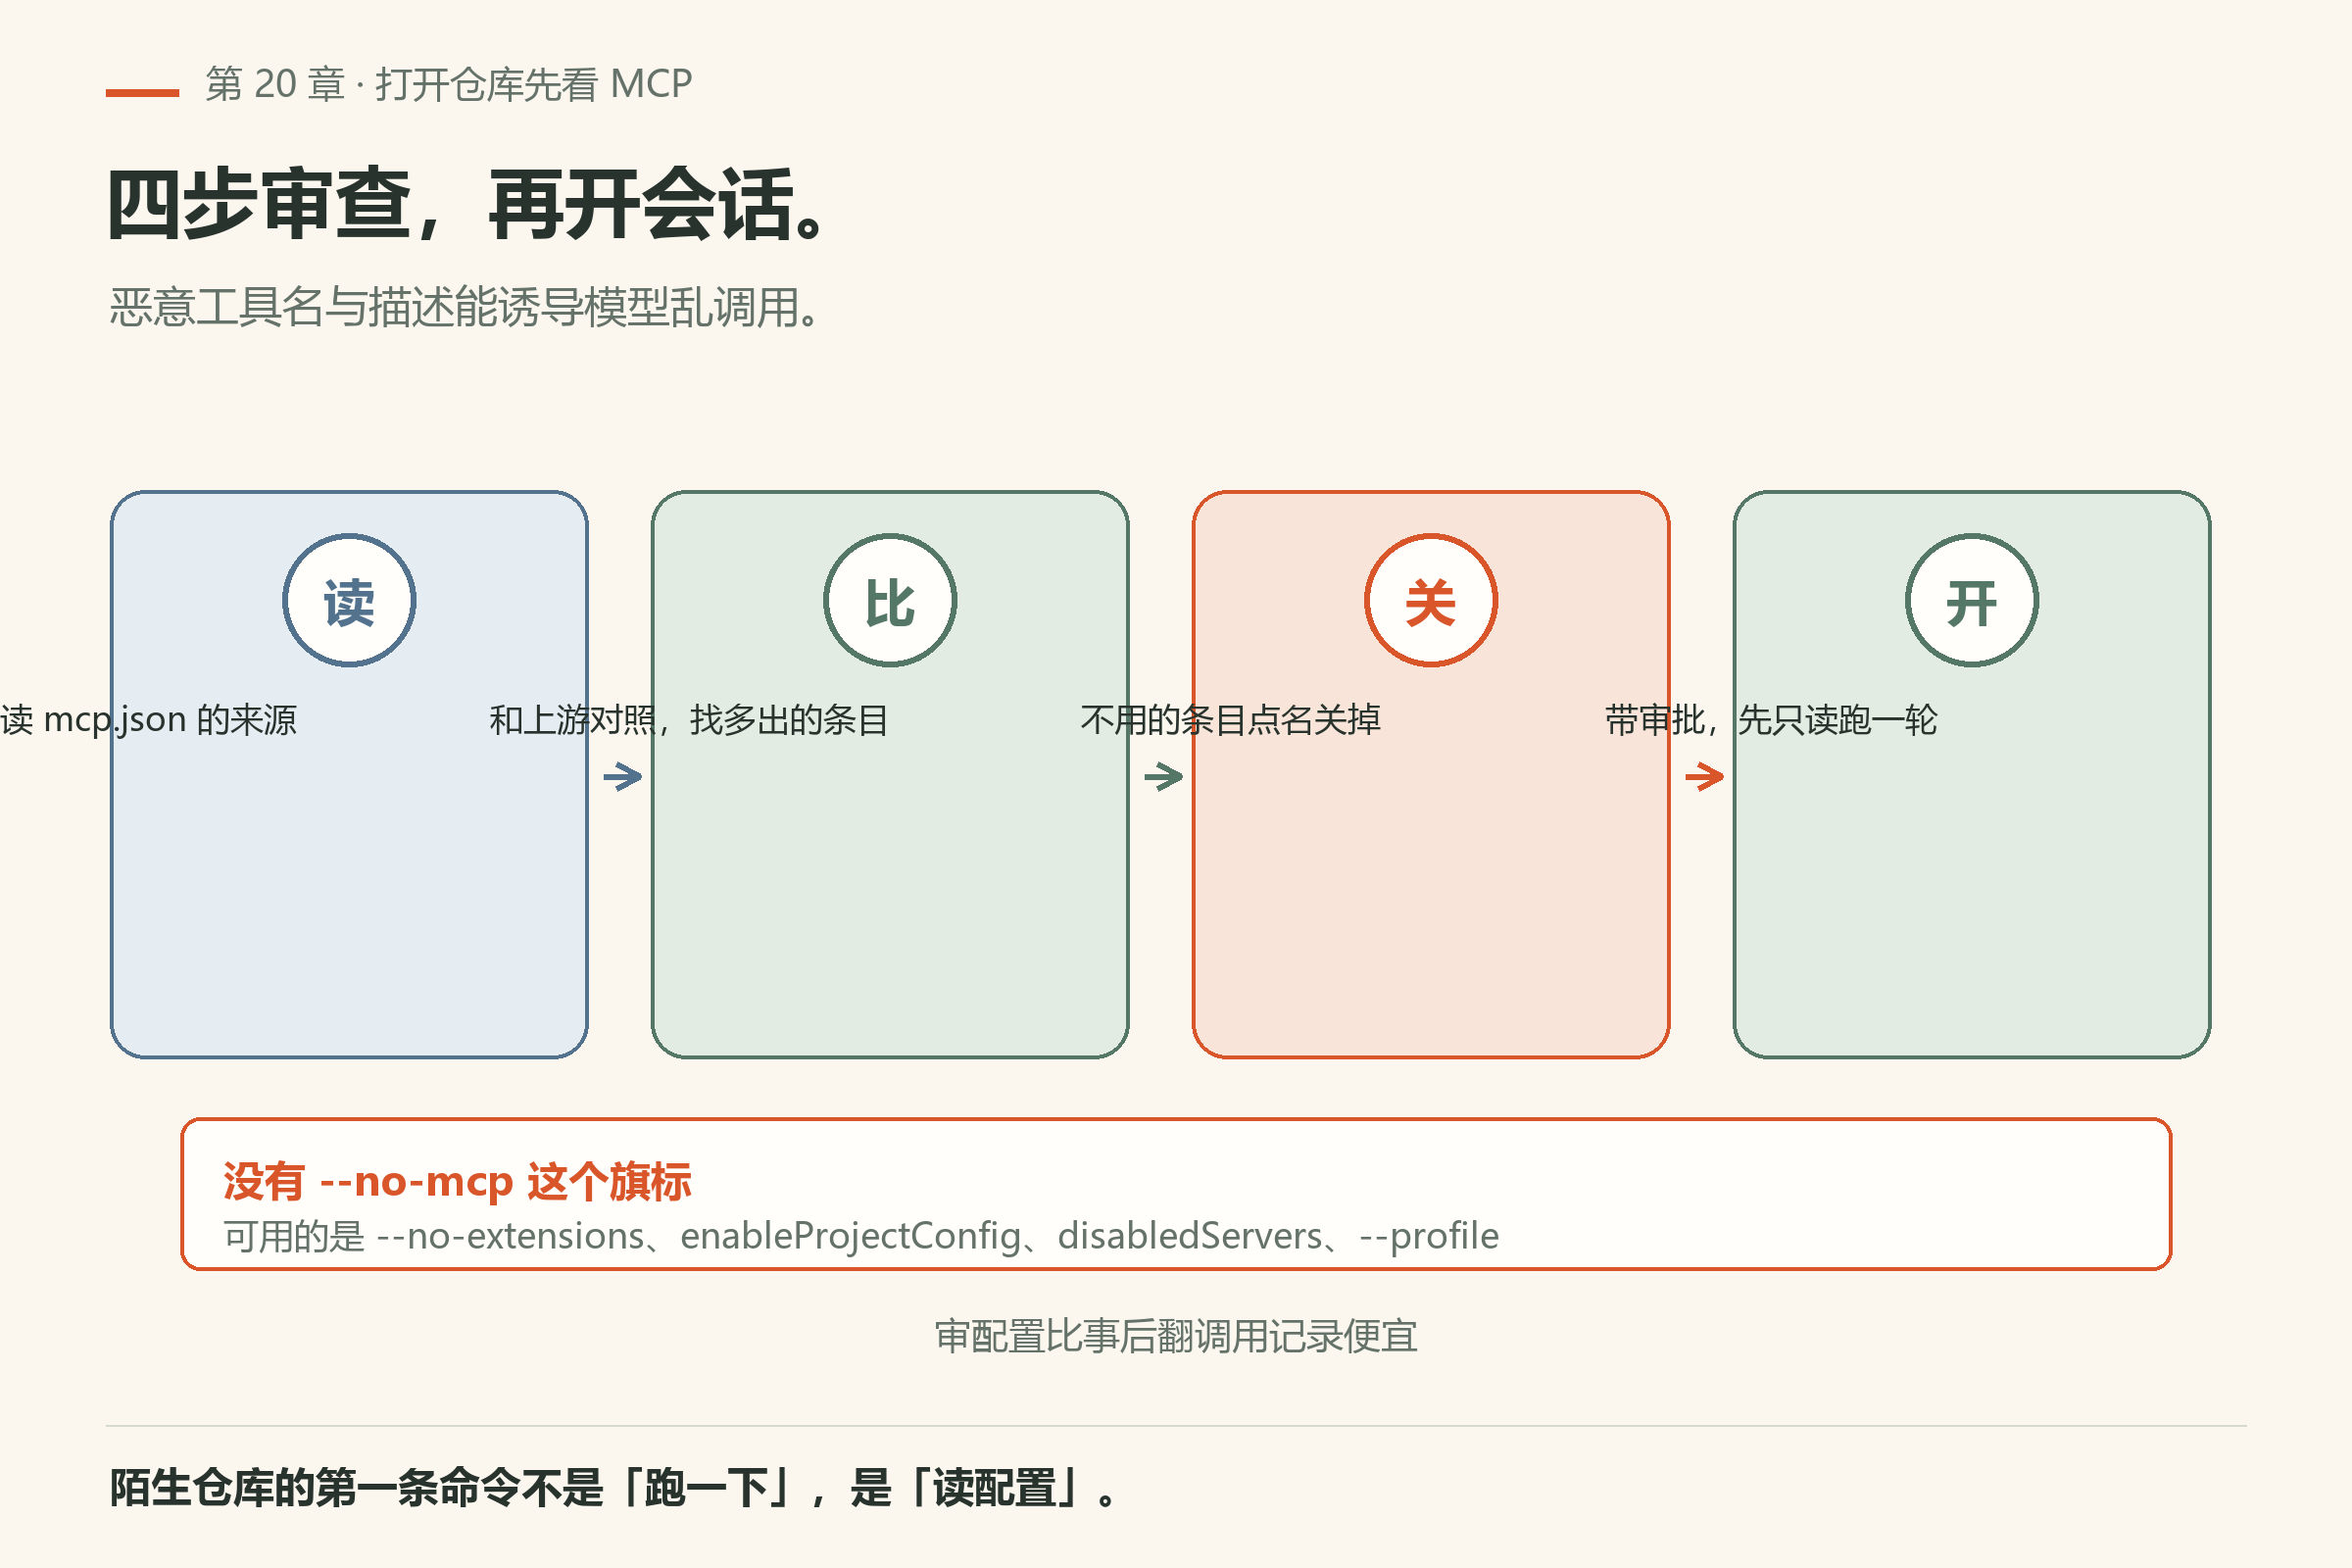
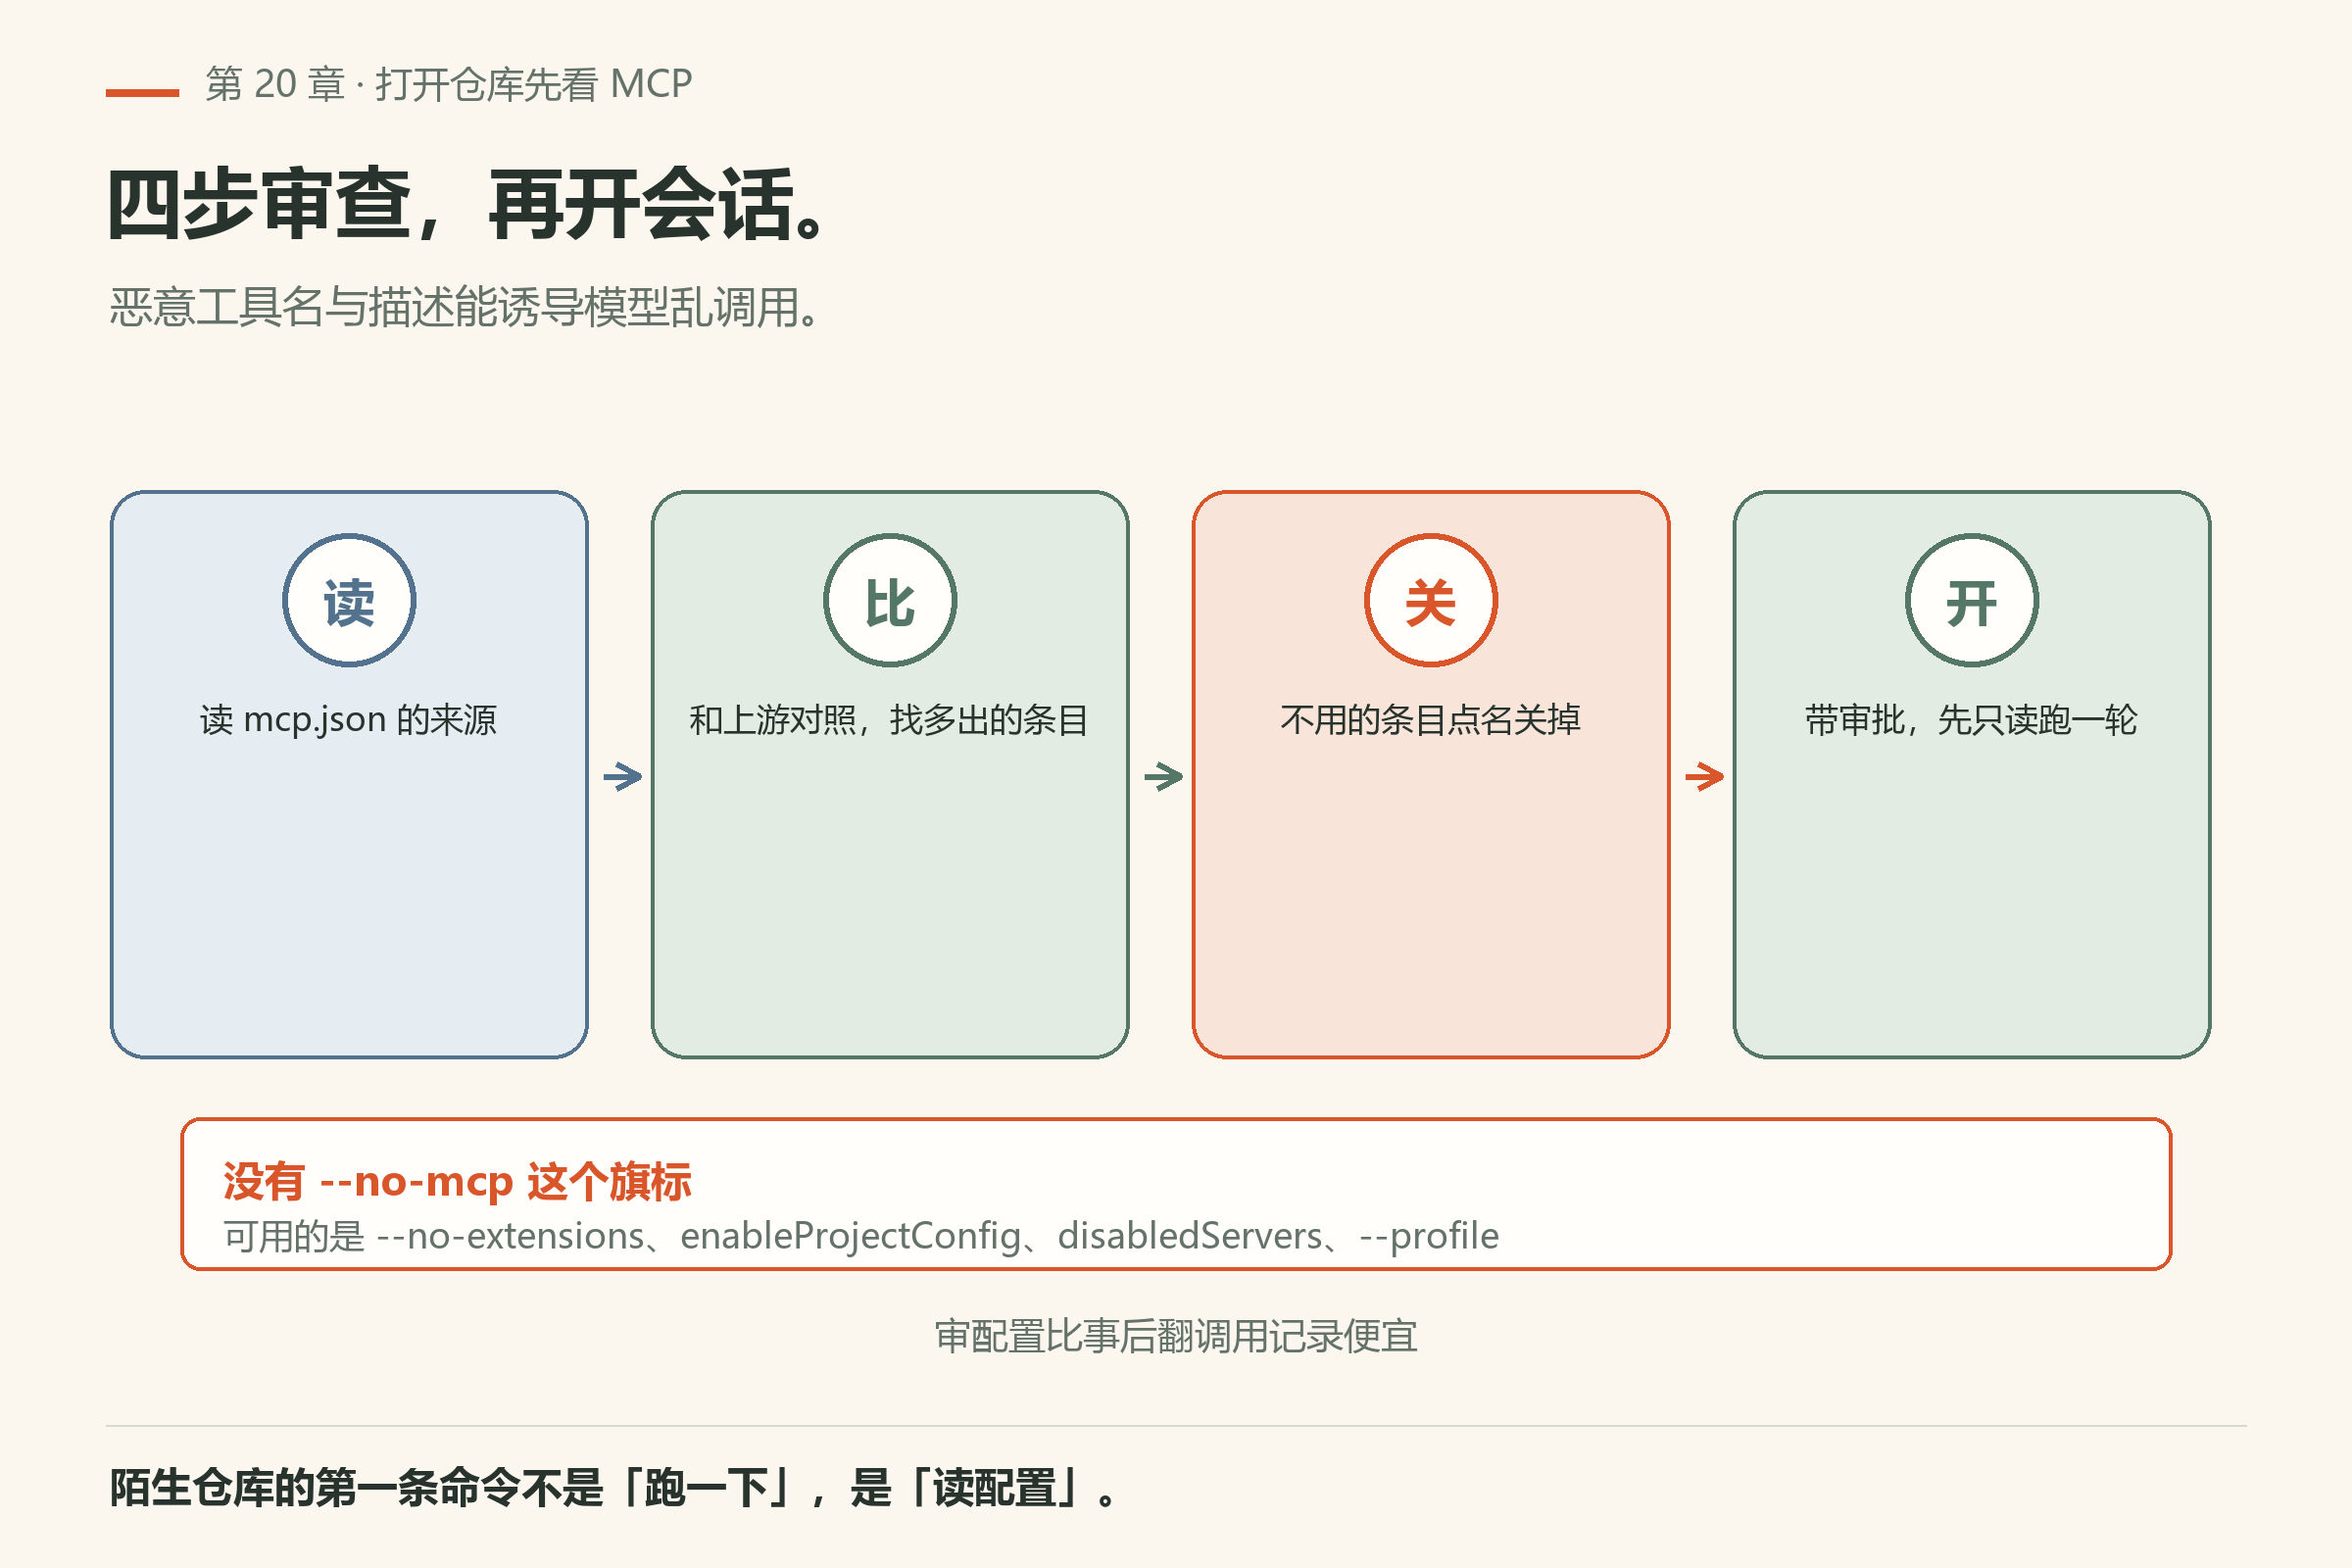
fix(omp): keep plate labels inside their cards, and gate the whole class
The canvas guard only looked at a shape's anchor point, but a label's
anchor is not the space it takes. fig20-3-mcp-review centred four card
captions on left + 20 -- near the card's left edge -- so one ran from
x=0 and two started at x=-26 and x=-9: text hanging outside its own
card, one run pressed against the canvas edge. Centre them on the card
(left + 122), matching the badge and verb above.

Drawing.text() now derives the run's real left and right edges from the
anchor and rejects anything off canvas, so an anchor inside the canvas
with ink outside can no longer slip past.

New regression test: every generated plate's outer band must be bare
paper. It reads the shipped JPEGs, so it needs no fonts and gives the
same verdict on any machine; the pre-fix fig20-3 fails it, the fixed one
passes. All 188 plates are clean; the four upstream screenshots are
excluded by size -- they photograph a window and bleed by nature.

Changed region(s): [[0.0, 0.4375, 0.9062, 0.4688]]

diff --git a/tests/test_omp_overhaul.py b/tests/test_omp_overhaul.py
@@ -8,6 +8,8 @@ import tempfile
 import unittest
 from unittest.mock import patch
 
+from PIL import Image
+
 from omp.overhaul import audit_delivery, audit_structure, markdown_scan
 
 
@@ -237,6 +239,9 @@ class MarkdownScanTests(unittest.TestCase):
 
 
 REPO_ROOT = Path(__file__).resolve().parents[1]
+# plates are drawn at 1200x800 logical pixels with --scale 2
+PLATE_PIXELS = (2400, 1600)
+PAPER_RGB = (251, 247, 239)
 # figures whose bitmap comes from a hand-written SVG export, not the Pillow script
 UPSTREAM_SHOTS = frozenset("""
     fig11-4-lsp-shot fig5-3-model-selector fig6-6-ask-shot fig6-7-slash-shot
@@ -247,6 +252,19 @@ SVG_DERIVED = frozenset("""
     fig28-1-sdk-embed fig33-3-tool-registry fig4-3-alpine-pitfall fig4-4-completions
     fig5-3-login-flow fig5-4-models-yml fig9-1-hashline-anchor fig9-2-hashline-vs-replace
 """.split())
+
+
+def edge_has_ink(image, box):
+    """True when a border band holds anything but bare paper.
+
+    Deviation is measured from paper, not from zero: getextrema returns
+    absolute channel values, so paper itself reads 251. Any channel more
+    than 30 away counts. The palest card fills differ by at most 24 on
+    their worst channel, so they stay quiet; drawn ink differs by hundreds.
+    """
+    band = image.crop(box)
+    return max(max(high - paper, paper - low)
+               for (low, high), paper in zip(band.getextrema(), PAPER_RGB)) > 30
 
 
 def load_illustration_script():
@@ -275,6 +293,32 @@ class IllustrationCoverageTests(unittest.TestCase):
         generators = set(load_illustration_script().FIGURES)
         self.assertEqual(generators & SVG_DERIVED, set())
         self.assertEqual(generators & UPSTREAM_SHOTS, set())
+
+    def test_no_generated_plate_paints_against_its_canvas_edge(self):
+        """A plate whose layout runs off the canvas is cut, not shrunk.
+
+        That failure is invisible downstream: the JPEG is still 1200x800,
+        still under the byte budget, still passes every audit -- the lost
+        half is simply gone. Nine plates were laid out past the right edge
+        and shipped that way until a PDF page was sampled by eye.
+
+        Plates are drawn on paper with a margin, so the outer band must be
+        bare. Screenshots are excluded: they are photographs of a window,
+        full-bleed by nature.
+        """
+        offenders = []
+        for path in sorted((REPO_ROOT / "omp" / "images").glob("*.jpg")):
+            with Image.open(path) as source:
+                if source.size != PLATE_PIXELS:
+                    continue   # upstream screenshot, not a drawn plate
+                source.draft("RGB", (600, 400))
+                image = source.convert("RGB")
+            width, height = image.size
+            bands = ((0, 0, width, 2), (0, height - 2, width, height),
+                     (0, 0, 2, height), (width - 2, 0, width, height))
+            if any(edge_has_ink(image, box) for box in bands):
+                offenders.append(path.stem)
+        self.assertEqual(offenders, [], "plates with content on the canvas edge")
 
 
 if __name__ == "__main__":

diff --git a/scripts/draw_omp_illustrations.py b/scripts/draw_omp_illustrations.py
@@ -78,8 +78,24 @@ class Drawing:
 
     def text(self, position, value, size=22, color=INK, bold=False, anchor="lt", width=None):
         font = self.font(size, bold)
-        if width is not None and self.draw.textlength(value, font=font) > width * self.scale:
+        measured = self.draw.textlength(value, font=font)
+        if width is not None and measured > width * self.scale:
             raise ValueError(f"Label exceeds its {width}px space: {value}")
+        # The anchor is one point; the painted run is not. Centred and
+        # right-anchored labels reach well past their anchor, so guard the
+        # extent too — otherwise a mis-anchored label slides off the canvas
+        # while every check still passes.
+        run = measured / self.scale
+        x = position[0]
+        if anchor[0] == "m":
+            left_edge, right_edge = x - run / 2, x + run / 2
+        elif anchor[0] == "r":
+            left_edge, right_edge = x - run, x
+        else:
+            left_edge, right_edge = x, x + run
+        if left_edge < -2 or right_edge > 1202:
+            raise ValueError(
+                f"Label leaves the canvas: {value!r} paints {left_edge:.0f}..{right_edge:.0f}")
         self.draw.text(self.coords(position), value, font=font, fill=color, anchor=anchor)
 
     def box(self, bounds, fill=WHITE, outline=LINE, radius=18, stroke=2):
@@ -1399,7 +1415,7 @@ def mcp_review(picture: Drawing):
         picture.box((left, 250, left + 244, 540), fill, color)
         picture.circle((left + 122, 306), 34, WHITE, color, 3)
         picture.text((left + 122, 306), verb, 26, color, True, "mm")
-        picture.text((left + 20, 366), detail, 17, anchor="mm", width=206)
+        picture.text((left + 122, 366), detail, 17, anchor="mm", width=206)
         if index < 3:
             picture.arrow([(left + 252, 396), (left + 270, 396)], color, 3)
     picture.box((92, 570, 1108, 648), WHITE, ORANGE, radius=10)

diff --git a/omp/overhaul/ACCEPTANCE.md b/omp/overhaul/ACCEPTANCE.md
@@ -286,3 +286,29 @@ yuyu-book tests 521 通过、`check_omp_plain.py --strict` 0 findings、
[1 lines of base64/hex data omitted]
 
 构建产物位于 `.scratch/dist-b37/`。
+
+**又一类越界：文字画到卡片外，贴到画布边**。画布守卫只看图元的锚点，而文字
+的锚点不等于它实际占的宽度——`anchor="mm"` 的标签会以锚点为中心向两侧铺开。
+`ch20` 的 `fig20-3-mcp-review` 把四张卡片的说明文字居中在 `left + 20`（卡片左缘
+附近），其中「读 mcp.json 的来源」正好从 x=0 起画，另外两条干脆跑到 x=-26、x=-9：
+文字挂在卡片外面，还压到画布边。修法是把居中点改到卡片中心 `left + 122`，与上方
+的圆形徽标、动词标题对齐。
+
+守卫补强：`Drawing.text()` 现在按锚点方向算出这一行真实占据的左右边界，越界即
+报错；这样「锚点在画内、笔画在画外」不会再漏过去。
+
+回归门禁：`tests/test_omp_overhaul.py` 新增
+`test_no_generated_plate_paints_against_its_canvas_edge`，直接检查成品 JPEG 的
+四条边框是否只有纸色（留白）。这条与字体无关，所以在任何机器上都稳定；对修复前
+的 `fig20-3` 会报错，对修复后的通过。全库 188 张成品图扫描 0 处越界，四张上游
+截图（整幅窗口，天然出血）按尺寸排除。
+
+验证：audit_structure 33/33、audit_delivery 0 errors、tests 68 通过、
+`bookctl.py check --fast` 0 errors。
+
+| 文件 | 字节 | 页数 / 书签 | SHA-256 |
+|---|---:|---|---|
[2 lines of base64/hex data omitted]
+
+构建产物位于 `.scratch/dist-b39/`。
